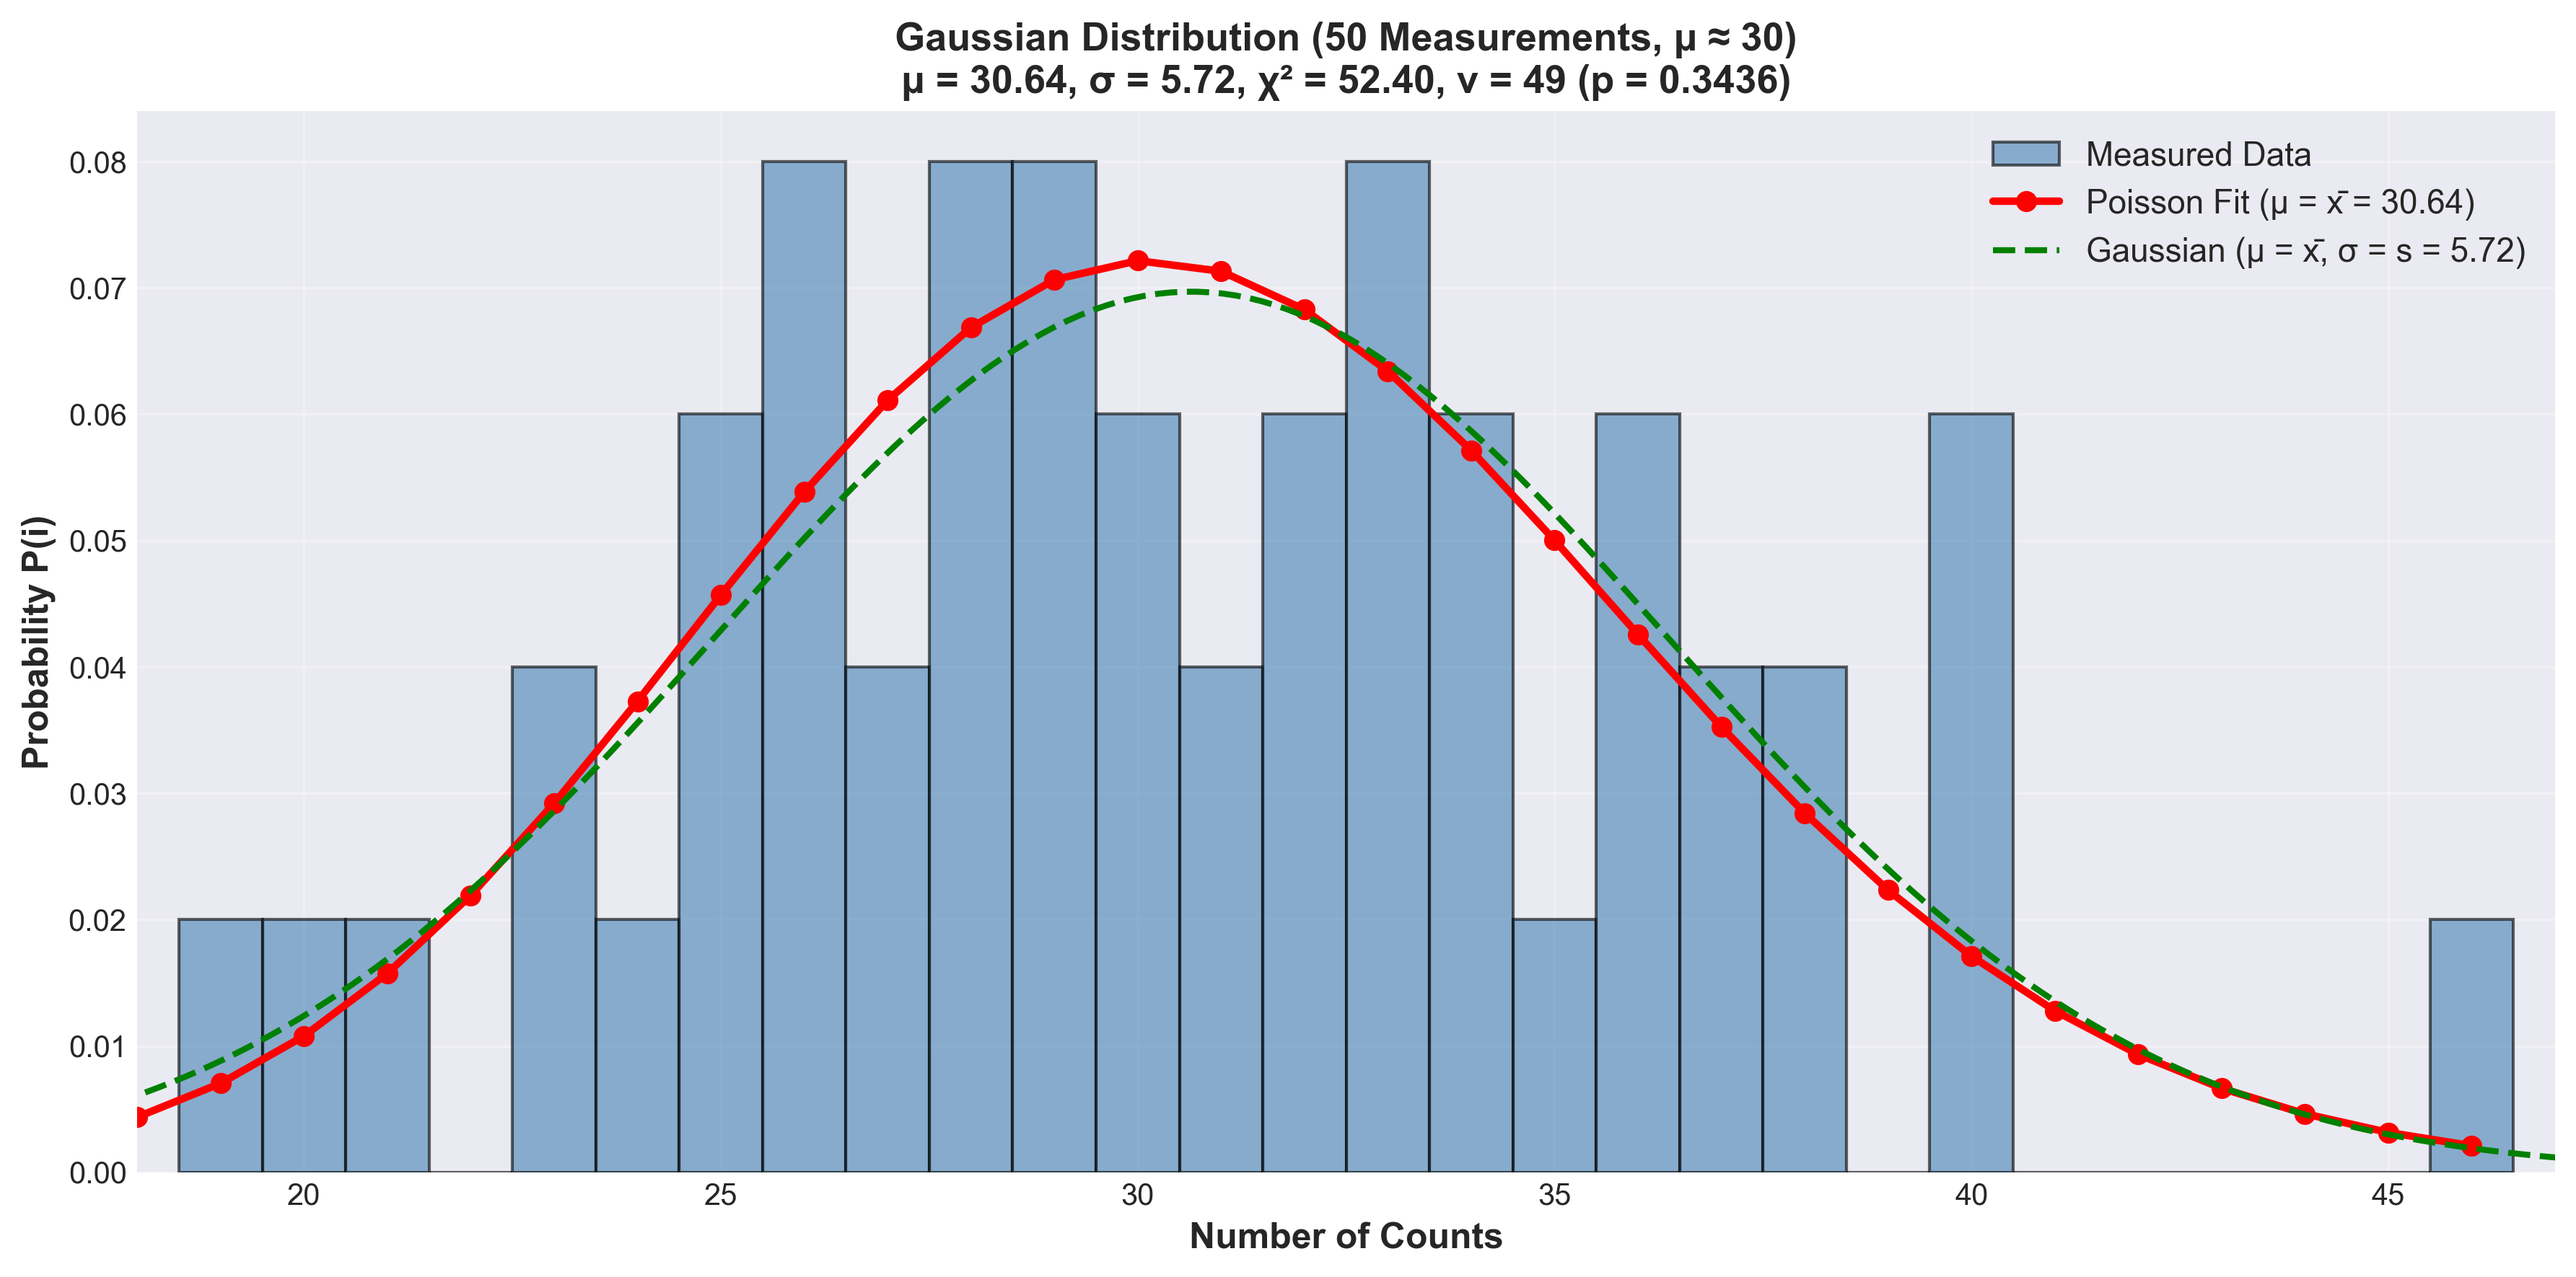
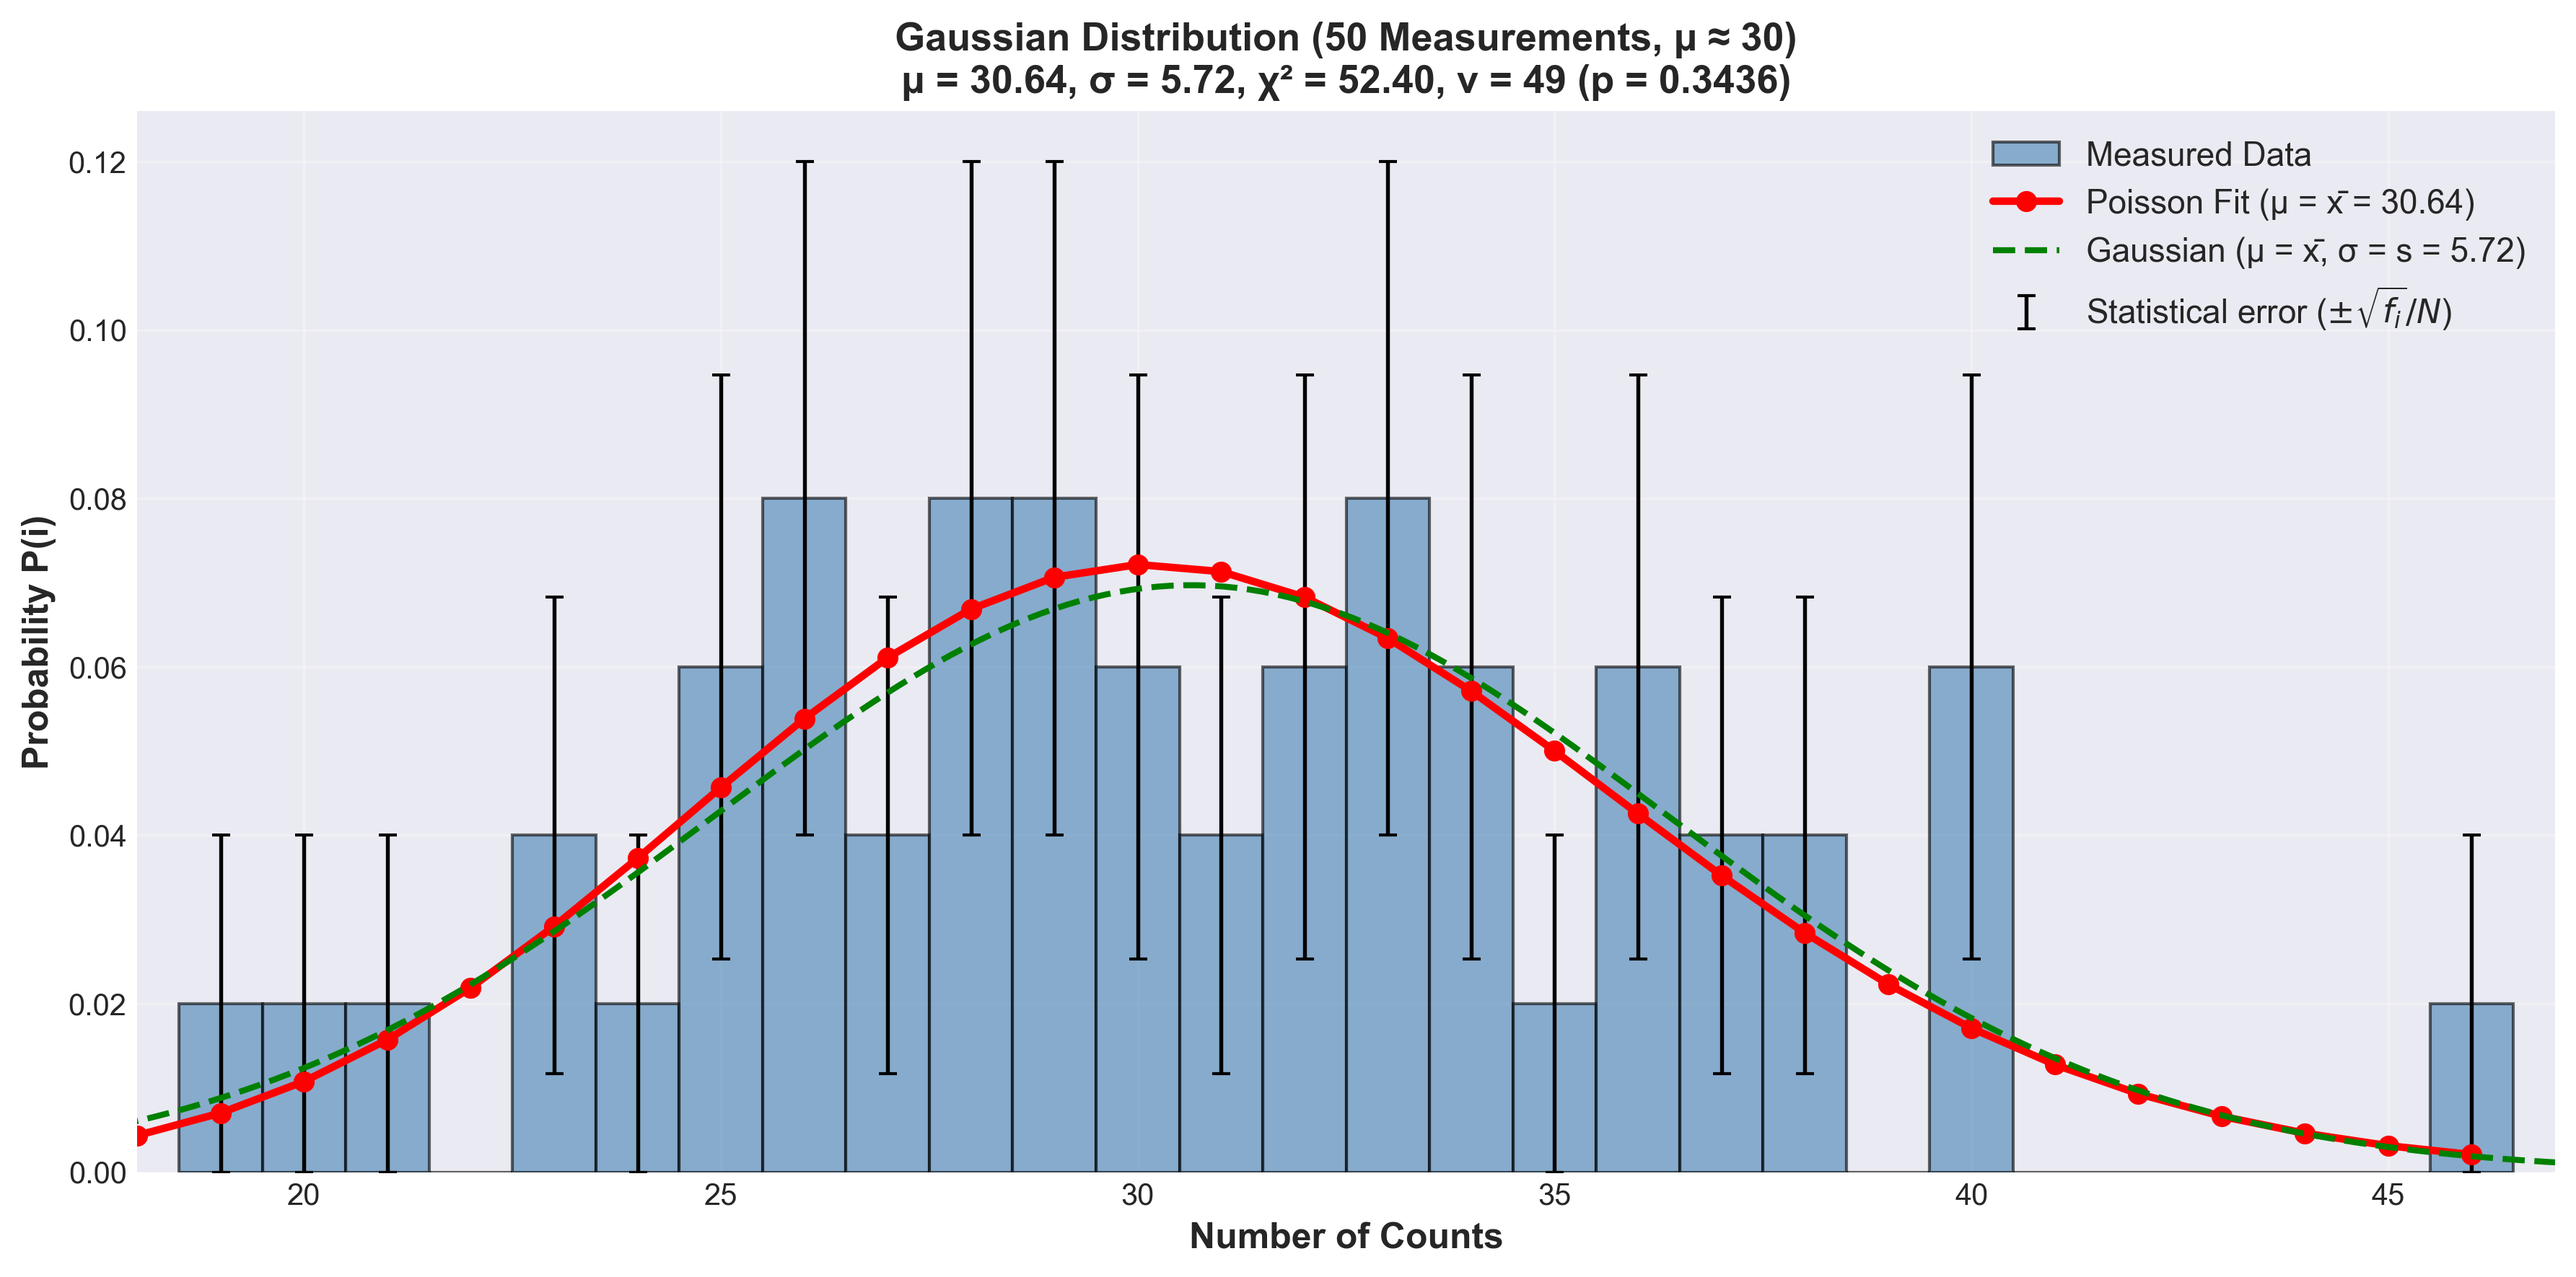
update lab 2 for mca channel to amplitude output and also lab 3

diff --git a/lab_3/lab_3_counting.py b/lab_3/lab_3_counting.py
@@ -158,6 +158,24 @@ print(f"                P(random sample shows larger fluctuation) = {p_poisson_p
 # GENERATE PLOTS
 # ============================================================================
 
+def add_count_error_bars(ax, counts, n_hist, edges):
+    """
+    Add statistical error bars to a unit-width, area-normalized histogram.
+
+    A bin holding f_i of the N measurements has Poisson uncertainty
+    sigma(f_i) = sqrt(f_i), so the plotted height P_i = f_i / N has
+        sigma(P_i) = sqrt(f_i) / N.
+    Empty bins (f_i = 0) are skipped because sqrt(0) = 0 would draw a
+    zero-length bar that falsely suggests the bin is exactly known.
+    """
+    N = len(counts)
+    centers = 0.5 * (edges[:-1] + edges[1:])
+    f = np.rint(n_hist * N)          # bin width is 1, so density = f / N
+    mask = f > 0
+    ax.errorbar(centers[mask], n_hist[mask], yerr=np.sqrt(f[mask]) / N,
+                fmt='none', ecolor='black', elinewidth=1.3, capsize=3,
+                label=r'Statistical error ($\pm\sqrt{f_i}/N$)')
+
 # -------- FIGURE 1: Gaussian Distribution (50 measurements) --------
 fig1, ax1 = plt.subplots(figsize=(12, 6))
 
@@ -166,6 +184,7 @@ counts_edges = np.arange(np.min(gaussian_counts) - 0.5, np.max(gaussian_counts) 
 n_hist, bins_edges, patches = ax1.hist(gaussian_counts, bins=counts_edges, density=True, 
                                         alpha=0.6, color='steelblue', edgecolor='black', 
                                         label='Measured Data')
+add_count_error_bars(ax1, gaussian_counts, n_hist, bins_edges)
 
 # Generate theoretical distributions
 x_range = np.linspace(np.min(gaussian_counts) - 2, np.max(gaussian_counts) + 2, 200)
@@ -203,6 +222,7 @@ counts_edges_poisson = np.arange(np.min(poisson_counts) - 0.5, np.max(poisson_co
 n_hist2, bins_edges2, patches2 = ax2.hist(poisson_counts, bins=counts_edges_poisson, density=True,
                                            alpha=0.6, color='steelblue', edgecolor='black',
                                            label='Measured Data')
+add_count_error_bars(ax2, poisson_counts, n_hist2, bins_edges2)
 
 # Generate theoretical distributions
 x_range_poisson = np.linspace(np.min(poisson_counts) - 1, np.max(poisson_counts) + 1, 200)
